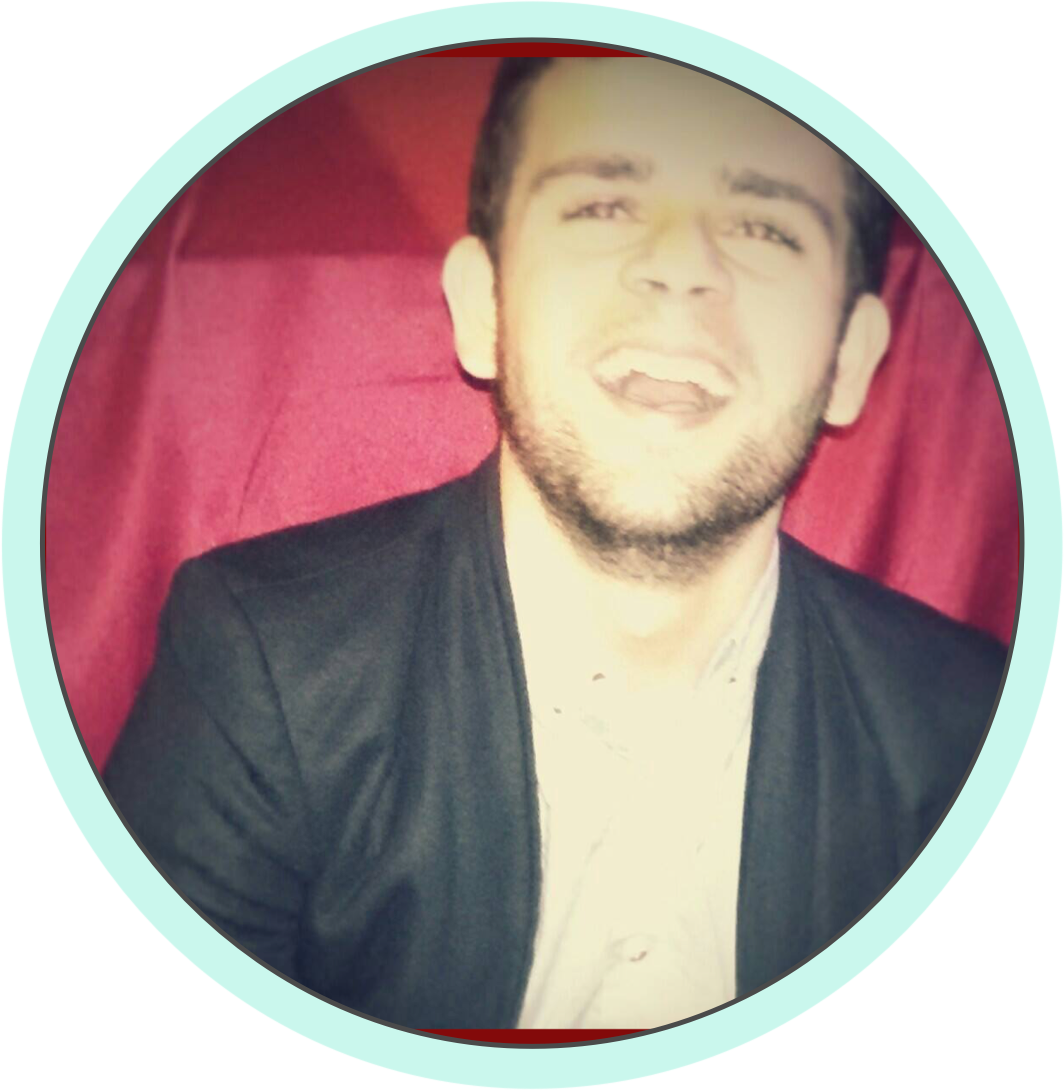
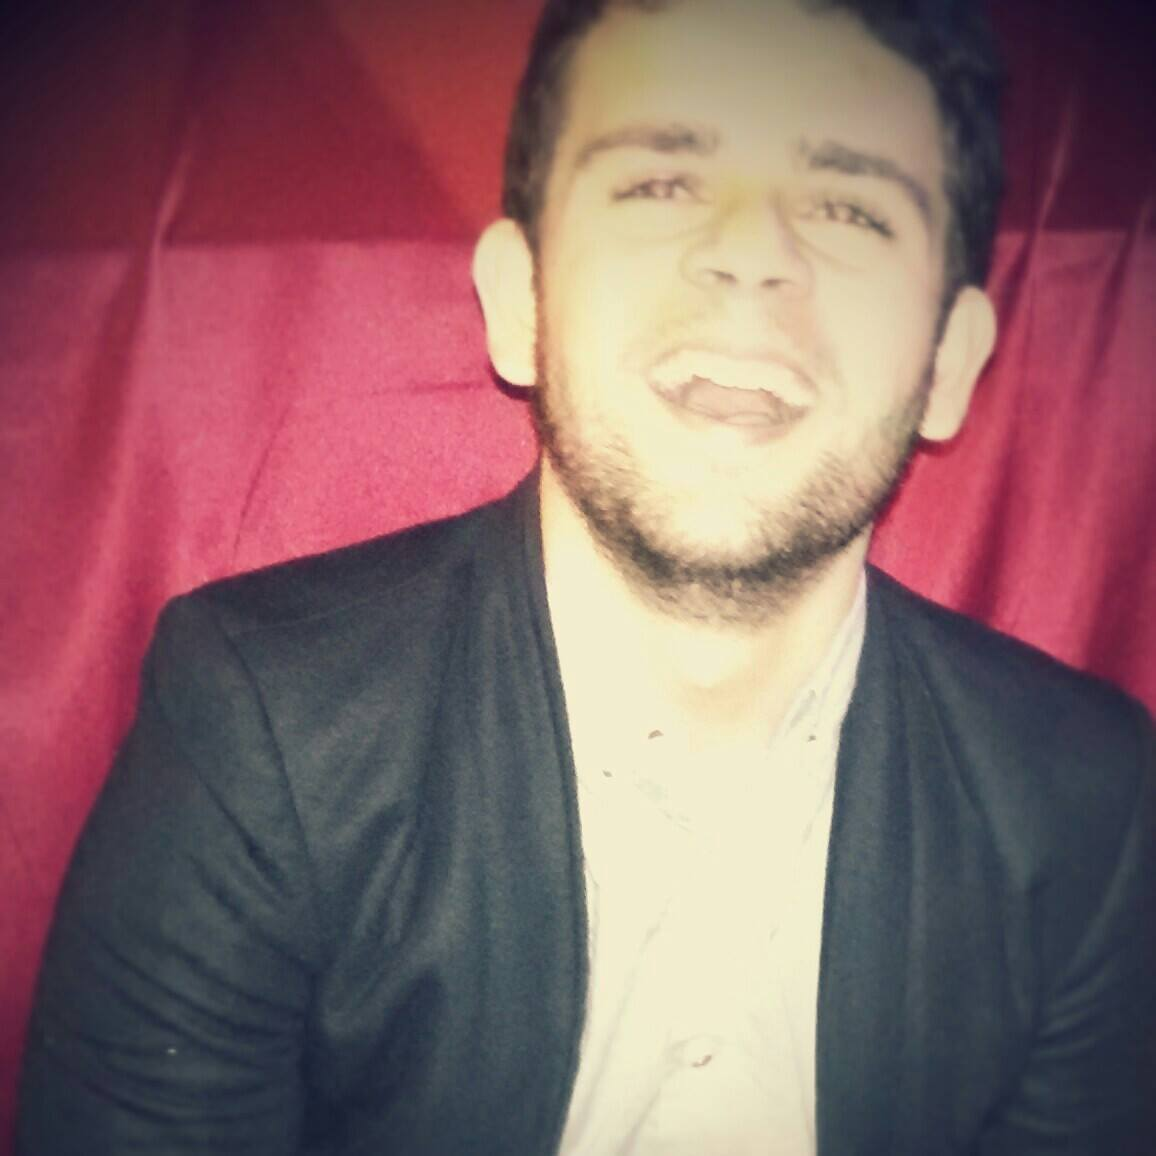
removed framed profile and changed h1 font

diff --git a/css/main.css b/css/main.css
@@ -18,7 +18,7 @@ p a {
   color: #008AFF;
 }
 h1,h2,h3,h4,h5,h6 {
-  font-family: 'Open Sans', 'Helvetica Neue', Helvetica, Arial, sans-serif;
+  font-family: 'Arial Rounded MT Bold', 'Helvetica Neue', Helvetica, Arial, sans-serif;
   font-weight: 800;
 }
 a {
